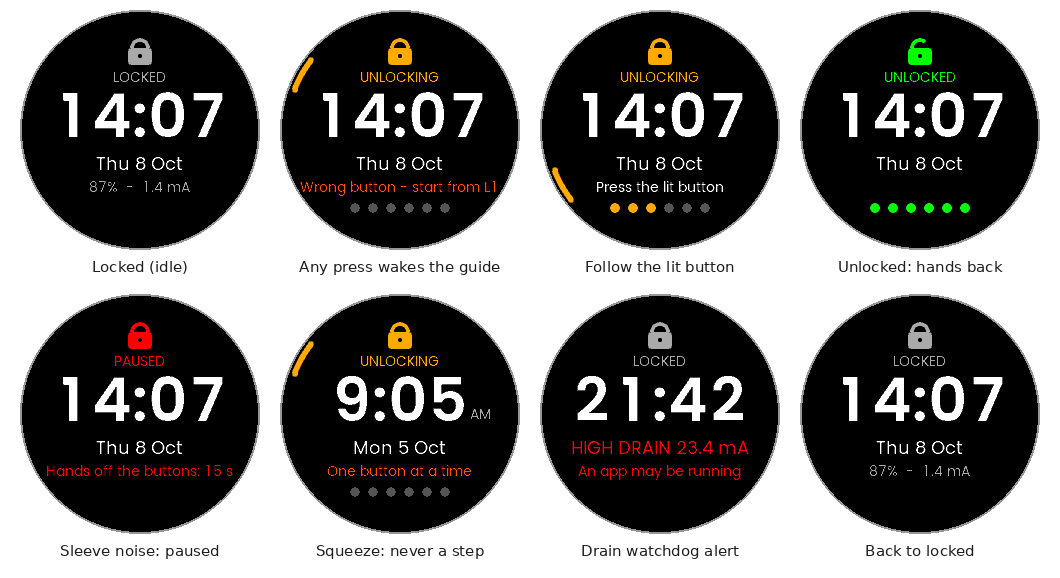
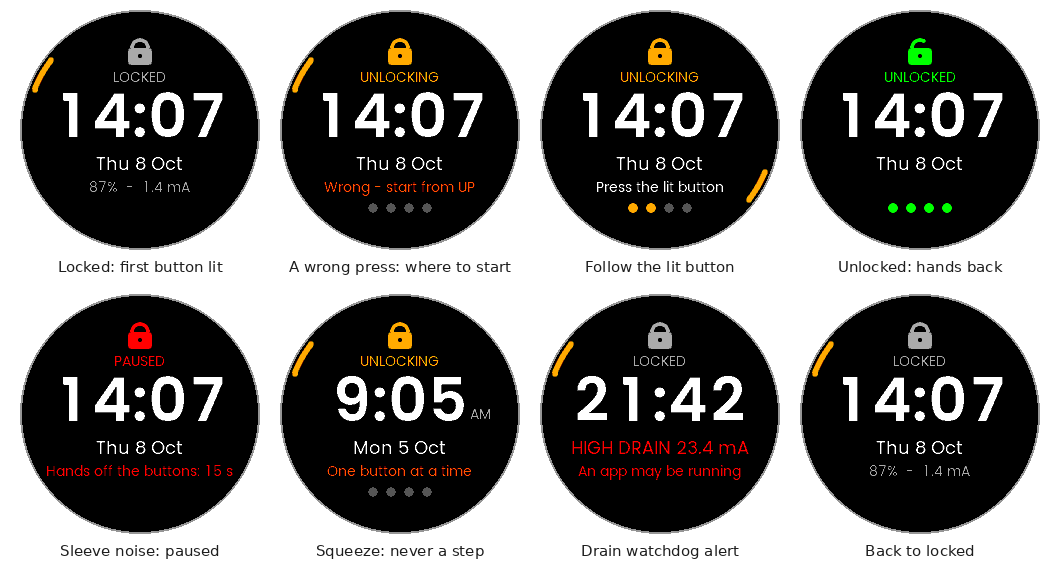
Light the first button while locked; fit messages to the longest name
Idle, the lock showed nothing to press, and the README said "press any
button". Three times in four that first press was a wrong button, and a
quick follow-up on the right one was refused as too soon: two rejections,
one press from the cool-down. The arc beside the first button is now lit
while locked, as it is for every later step. It tells a sleeve nothing.

The rejection messages fit the 200 px status line with SELECT, the
longest name ("Wrong button - start from SELECT" was 232 px). The
simulator scripts and the screenshots follow the four-step default.

Claude-Session: https://claude.ai/code/session_01PVDuty2bJJQoBMu2kJCUvz

diff --git a/apps/ButtonLock/Software/Apps/LVGL-GUI/gui/src/screens/LockScreen.cpp b/apps/ButtonLock/Software/Apps/LVGL-GUI/gui/src/screens/LockScreen.cpp
@@ -242,9 +242,8 @@ void LockScreen::onTimer()
 
 void LockScreen::apply(Outcome outcome, uint32_t now)
 {
-    char first[24];
-    std::snprintf(first, sizeof(first), "start from %s",
-                  ButtonLock::buttonName(mDetector.sequence()[0]));
+    // Every message fits the 200 px status line with the longest name, SELECT.
+    const char* first = ButtonLock::buttonName(mDetector.sequence()[0]);
 
     switch (outcome) {
         case Outcome::None:
@@ -279,12 +278,14 @@ void LockScreen::apply(Outcome outcome, uint32_t now)
 
         case Outcome::Wrong: {
             char text[40];
-            std::snprintf(text, sizeof(text), "Wrong button - %s", first);
+            std::snprintf(text, sizeof(text), "Wrong - start from %s", first);
             flash(text, now);
         } return;
 
         case Outcome::TooLong:
-            flash(mDetector.timing().finalHoldMs > 0 ? "Tap, then hold the last" : "Just tap - no holding", now);
+            // With a final hold (an option the settings do not offer), this is
+            // a tap held too long or the hold held past stuckMs.
+            flash(mDetector.timing().finalHoldMs > 0 ? "Taps, then a short hold" : "Just tap - no holding", now);
             return;
 
         case Outcome::TooShort:
@@ -297,13 +298,13 @@ void LockScreen::apply(Outcome outcome, uint32_t now)
 
         case Outcome::Timeout: {
             char text[40];
-            std::snprintf(text, sizeof(text), "Too slow - %s", first);
+            std::snprintf(text, sizeof(text), "Too slow - start from %s", first);
             flash(text, now);
         } return;
 
         case Outcome::NotQuiet: {
             char text[40];
-            std::snprintf(text, sizeof(text), "Pause, then %s", first);
+            std::snprintf(text, sizeof(text), "Pause, then press %s", first);
             flash(text, now);
         } return;
     }
@@ -393,10 +394,13 @@ void LockScreen::renderGuide()
         Draw::setHidden(dot, false);
     }
 
-    // Light the arc beside the button to press next.
+    // Light the arc beside the button to press next. Idle, that is the first
+    // one: a press of any other button would count as a wrong attempt, and a
+    // quick second try as one too soon, which is a cool-down in three
+    // presses. The lit arc gives nothing away to a sleeve.
     using B = SDK::LVGL::Buttons;
     B::Color up = B::NONE, down = B::NONE, select = B::NONE, back = B::NONE;
-    if (mMode == Mode::Entering && length > 0) {
+    if ((mMode == Mode::Entering || mMode == Mode::Idle) && length > 0) {
         switch (mDetector.expected()) {
             case Button::Up:     up     = B::AMBER; break;
             case Button::Down:   down   = B::AMBER; break;

diff --git a/apps/ButtonLock/Software/Apps/LVGL-GUI/gui/include/gui/screens/LockScreen.hpp b/apps/ButtonLock/Software/Apps/LVGL-GUI/gui/include/gui/screens/LockScreen.hpp
@@ -4,11 +4,11 @@
  * @brief   ButtonLock's one screen: a quiet clock face that swallows every
  *          button until the unlock sequence is entered.
  *
- * Idle, it shows a padlock, the time, the date and the battery, and nothing
- * else changes until the next minute. Any button press wakes the guide: the
- * padlock turns amber, dots show how far the sequence has got, and the bezel
- * arc next to the button to press next lights up, so the sequence never has
- * to be memorised. Repeated wrong input (a sleeve) turns the padlock red and
+ * Idle, it shows a padlock, the time, the date and the battery, and the
+ * bezel arc beside the sequence's first button; nothing else changes until
+ * the next minute. A press wakes the guide: the padlock turns amber, dots
+ * show how far the sequence has got, and the arc moves to the button to
+ * press next, so the sequence never has to be memorised. Repeated wrong input (a sleeve) turns the padlock red and
  * pauses unlocking until the buttons have been left alone for a while. When
  * the sequence completes, the padlock opens and the GUI exits, handing the
  * watch back.
@@ -52,7 +52,7 @@ public:
 
 private:
     enum class Mode : uint8_t {
-        Idle,          ///< clock face, nothing lit
+        Idle,          ///< clock face, the first button lit
         Entering,      ///< guide shown: dots and the next button lit
         CoolingDown,   ///< unlocking paused until the buttons are left alone
         Unlocked,      ///< open padlock, about to exit
